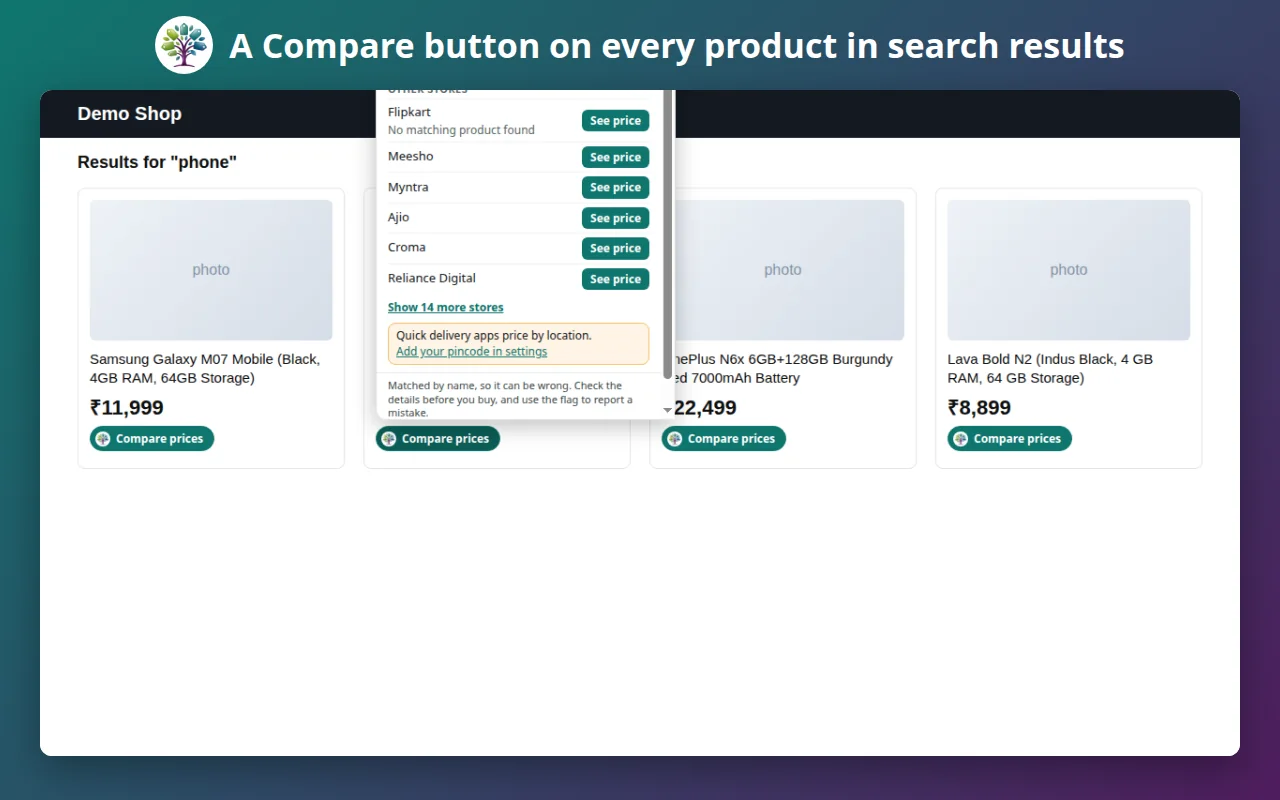
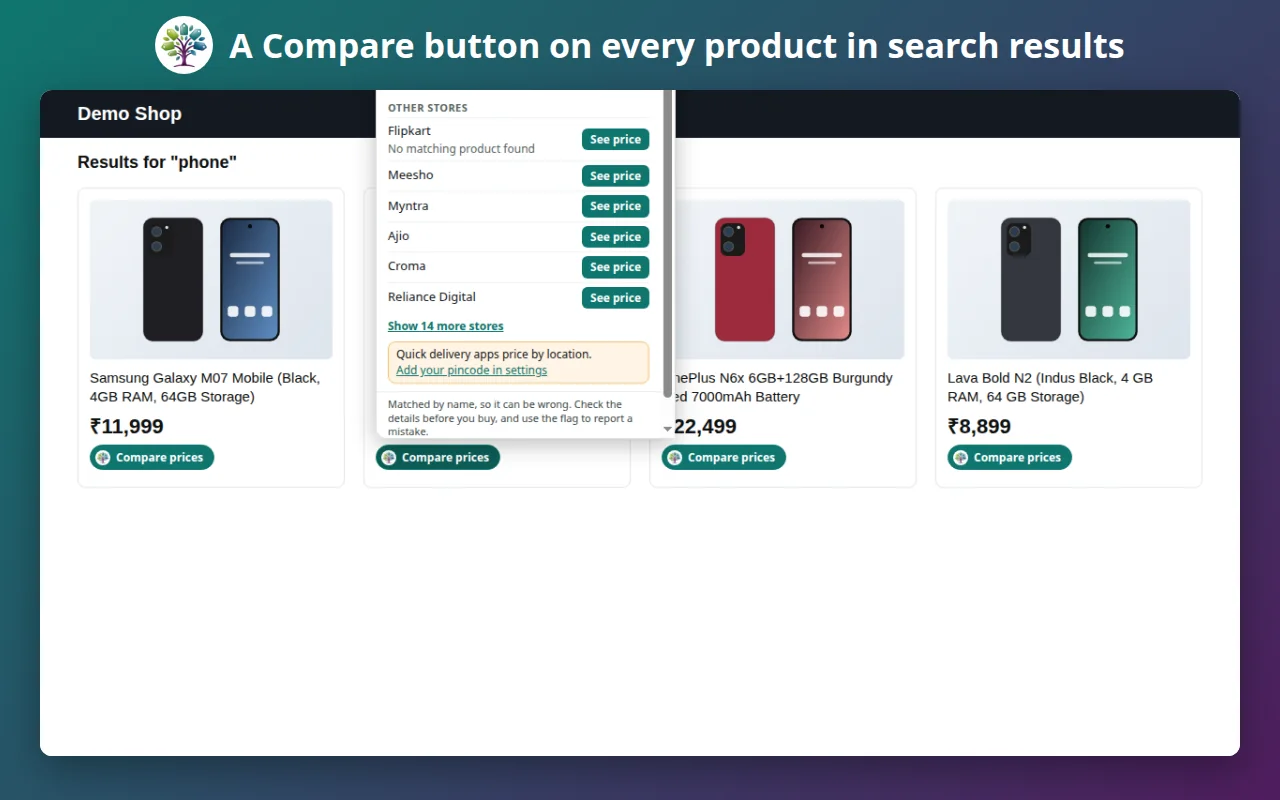
PryceHunt page: use the new screenshots that show product pictures
The three screenshots that showed grey "Product photo" boxes (comparison box,
Compare buttons, sale facts) are replaced with versions showing drawn product
illustrations. The WebP files were re-converted, and the pages were rebuilt, so
the picture fingerprints (?v=) changed on the home page (all languages) and
the PryceHunt page. Nothing else changed.

Changed region(s): [[0.0625, 0.125, 0.7188, 0.5938], [0.7188, 0.25, 0.9375, 0.5938]]

diff --git a/prycehunt/index.html b/prycehunt/index.html
@@ -49,7 +49,7 @@
       <a class="btn ghost" href="#features">See what it does</a>
     </div>
   </div>
-  <img class="hero-shot" src="../assets/shots/prycehunt/comparison-box.webp?v=51adc54d" width="1280" height="800" alt="PryceHunt&#x27;s comparison box on a product page, showing a cheaper price at another store">
+  <img class="hero-shot" src="../assets/shots/prycehunt/comparison-box.webp?v=68cea952" width="1280" height="800" alt="PryceHunt&#x27;s comparison box on a product page, showing a cheaper price at another store">
 </section>
 
 <div class="wrap" id="features">
@@ -59,7 +59,7 @@
       <p>A small box under the price opens the comparison. Switch on “Show the price here instead of a link” and PryceHunt shows the other store's price in the box, marked “likely the same product” or “similar: check details”. You can switch that on or off right there.</p>
       <ul class="points"><li>Live prices today for Amazon.in and Flipkart; the other stores open their own search</li><li>The cheapest store found is called out, and you can list the lowest price first</li><li>Quick-delivery apps are included, with prices per 100 g, per 100 ml or per piece</li></ul>
     </div>
-    <div class="shot-wrap wide"><img src="../assets/shots/prycehunt/comparison-box.webp?v=51adc54d" width="1280" height="800" loading="lazy" alt="PryceHunt&#x27;s comparison box on a product page, showing a cheaper price at another store"></div>
+    <div class="shot-wrap wide"><img src="../assets/shots/prycehunt/comparison-box.webp?v=68cea952" width="1280" height="800" loading="lazy" alt="PryceHunt&#x27;s comparison box on a product page, showing a cheaper price at another store"></div>
   </section>
   <section class="feature wide flip">
     <div>
@@ -67,7 +67,7 @@
       <p>On search, category and home pages, and on the similar items of a product page, every product gets a small “Compare prices” button. Nothing is fetched until you press one.</p>
       <ul class="points"><li>Amazon.in, Flipkart, Meesho, Myntra, Ajio and Croma</li><li>Blinkit, Zepto, BigBasket and Swiggy Instamart</li><li>Pause it for 30 minutes to 23 hours, on one site or on all sites</li></ul>
     </div>
-    <div class="shot-wrap wide"><img src="../assets/shots/prycehunt/compare-buttons.webp?v=e91c07dc" width="1280" height="800" loading="lazy" alt="A search results page where every product has a small Compare prices button, and one comparison is open"></div>
+    <div class="shot-wrap wide"><img src="../assets/shots/prycehunt/compare-buttons.webp?v=214cf41e" width="1280" height="800" loading="lazy" alt="A search results page where every product has a small Compare prices button, and one comparison is open"></div>
   </section>
   <section class="feature wide">
     <div>
@@ -75,7 +75,7 @@
       <p>PryceHunt remembers the prices you have seen and charts them. It shows the lowest price seen, checks a “70% off” claim against what the product has usually cost, and during big sales such as Diwali tells you what the product cost before the sale began.</p>
       <ul class="points"><li>No verdict and no pressure: it states the facts and you decide</li><li>Sale dates are the usual timing, because shops announce theirs late; you can choose the seasons to follow and add your own</li><li>Optional shared history, built from prices other people chose to share anonymously</li></ul>
     </div>
-    <div class="shot-wrap wide"><img src="../assets/shots/prycehunt/sale-facts.webp?v=d7a28352" width="1280" height="800" loading="lazy" alt="PryceHunt&#x27;s price history chart, the check of a 70 percent off claim and the price before a sale"></div>
+    <div class="shot-wrap wide"><img src="../assets/shots/prycehunt/sale-facts.webp?v=0e260057" width="1280" height="800" loading="lazy" alt="PryceHunt&#x27;s price history chart, the check of a 70 percent off claim and the price before a sale"></div>
   </section>
   <section class="feature wide flip">
     <div>

diff --git a/ja/index.html b/ja/index.html
@@ -105,7 +105,7 @@
         <span class="fine">Free during launch</span>
       </div>
     </div>
-    <img class="shot wide" src="../assets/shots/prycehunt/comparison-box.webp?v=51adc54d" width="1280" height="800" loading="lazy" alt="PryceHunt&#x27;s comparison box on a product page, with a cheaper price found at another store">
+    <img class="shot wide" src="../assets/shots/prycehunt/comparison-box.webp?v=68cea952" width="1280" height="800" loading="lazy" alt="PryceHunt&#x27;s comparison box on a product page, with a cheaper price found at another store">
   </article>
   <p class="more">新しい製品を開発中です。次につくってほしいもののアイデアは <a href="mailto:support@purplewonton.com">support@purplewonton.com</a> までお寄せください。</p>
 </section>

diff --git a/fr/index.html b/fr/index.html
@@ -105,7 +105,7 @@
         <span class="fine">Free during launch</span>
       </div>
     </div>
-    <img class="shot wide" src="../assets/shots/prycehunt/comparison-box.webp?v=51adc54d" width="1280" height="800" loading="lazy" alt="PryceHunt&#x27;s comparison box on a product page, with a cheaper price found at another store">
+    <img class="shot wide" src="../assets/shots/prycehunt/comparison-box.webp?v=68cea952" width="1280" height="800" loading="lazy" alt="PryceHunt&#x27;s comparison box on a product page, with a cheaper price found at another store">
   </article>
   <p class="more">D’autres produits sont en préparation. Vos idées pour la suite sont les bienvenues à <a href="mailto:support@purplewonton.com">support@purplewonton.com</a>.</p>
 </section>

diff --git a/de/index.html b/de/index.html
@@ -105,7 +105,7 @@
         <span class="fine">Free during launch</span>
       </div>
     </div>
-    <img class="shot wide" src="../assets/shots/prycehunt/comparison-box.webp?v=51adc54d" width="1280" height="800" loading="lazy" alt="PryceHunt&#x27;s comparison box on a product page, with a cheaper price found at another store">
+    <img class="shot wide" src="../assets/shots/prycehunt/comparison-box.webp?v=68cea952" width="1280" height="800" loading="lazy" alt="PryceHunt&#x27;s comparison box on a product page, with a cheaper price found at another store">
   </article>
   <p class="more">Weitere Produkte sind in Arbeit. Ideen, was wir als Nächstes bauen sollen, gerne an <a href="mailto:support@purplewonton.com">support@purplewonton.com</a>.</p>
 </section>

diff --git a/es/index.html b/es/index.html
@@ -105,7 +105,7 @@
         <span class="fine">Free during launch</span>
       </div>
     </div>
-    <img class="shot wide" src="../assets/shots/prycehunt/comparison-box.webp?v=51adc54d" width="1280" height="800" loading="lazy" alt="PryceHunt&#x27;s comparison box on a product page, with a cheaper price found at another store">
+    <img class="shot wide" src="../assets/shots/prycehunt/comparison-box.webp?v=68cea952" width="1280" height="800" loading="lazy" alt="PryceHunt&#x27;s comparison box on a product page, with a cheaper price found at another store">
   </article>
   <p class="more">Hay más productos en camino. Tus ideas sobre qué crear después son bienvenidas en <a href="mailto:support@purplewonton.com">support@purplewonton.com</a>.</p>
 </section>

diff --git a/index.html b/index.html
@@ -105,7 +105,7 @@
         <span class="fine">Free during launch</span>
       </div>
     </div>
-    <img class="shot wide" src="assets/shots/prycehunt/comparison-box.webp?v=51adc54d" width="1280" height="800" loading="lazy" alt="PryceHunt&#x27;s comparison box on a product page, with a cheaper price found at another store">
+    <img class="shot wide" src="assets/shots/prycehunt/comparison-box.webp?v=68cea952" width="1280" height="800" loading="lazy" alt="PryceHunt&#x27;s comparison box on a product page, with a cheaper price found at another store">
   </article>
   <p class="more">More products are in the works. Ideas for what we should build next are welcome at <a href="mailto:support@purplewonton.com">support@purplewonton.com</a>.</p>
 </section>
